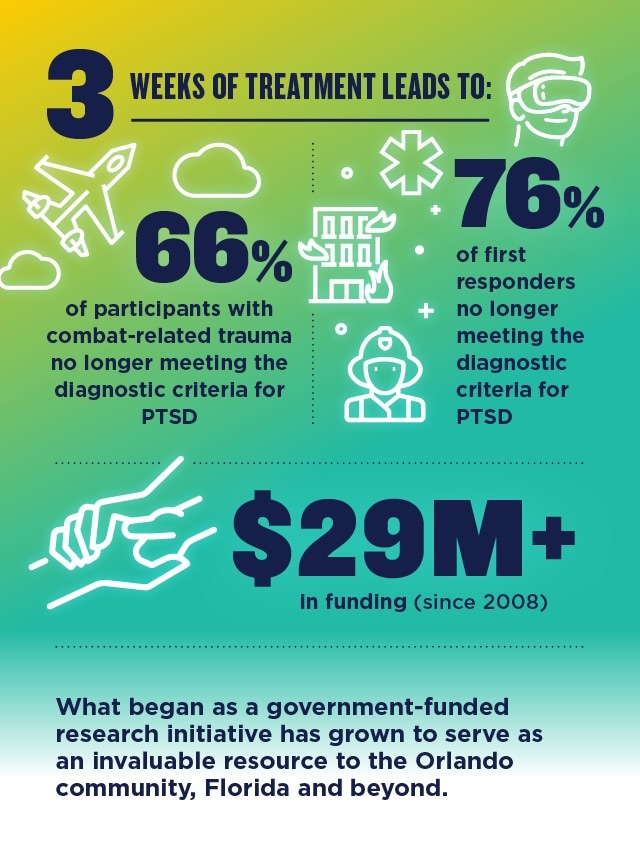
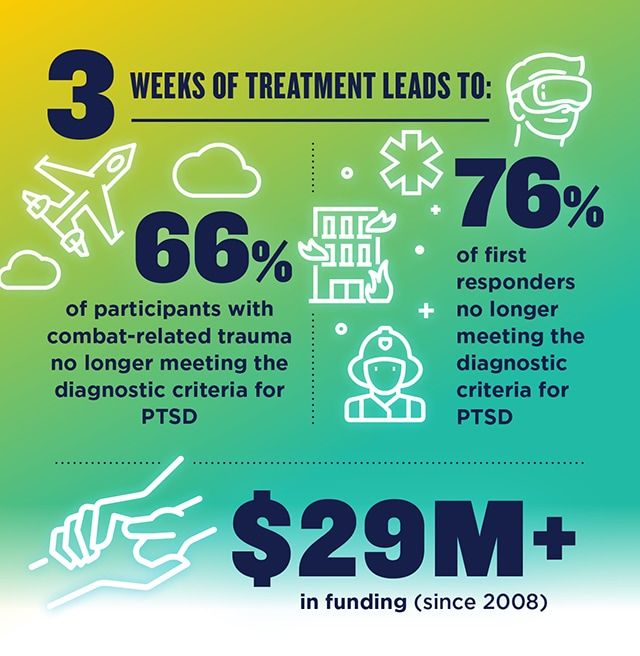
Email updates

diff --git a/src/restores.html b/src/restores.html
@@ -97,10 +97,10 @@
               <!-- START Stat Image -->
 
               <tr class="bg-white">
-                <td>
+                <td class="pb-3">
                   <img class="mw-100"
                     src="https://s3.amazonaws.com/web.ucf.edu/email/2021-chronicle-email/restores/Nov-Restores-Chronicle-stats.jpg"
-                    alt="Statistics displaying the effectivness of UCF's PTSD Research Clinic">
+                    alt="Statistics displaying the effectiveness of UCF's PTSD Research Clinic">
                 </td>
               </tr>
 
@@ -112,14 +112,32 @@
           <table class="container-outer bg-white">
             <tbody>
 
+            <!-- START Podcast Info -->
+              <tr>
+                <td class="pb-4">
+
+                  <table class="container-inner">
+                    <tbody>
+                      <tr>
+                        <td class="text-left">
+                          What began as a government-funded research initiative has grown to serve as an invaluable resource to the Orlando community, Florida and beyond. Listen to our recent podcast episode with expert Deborah Beidel on PTSD treatment that works for veterans and first responders.
+                        </td>
+                      </tr>
+                    </tbody>
+                  </table>
+
+                </td>
+              </tr>
+              <!-- END Podcast Info -->
+
               <!-- START Knights Do That Podcast CTA -->
               <tr>
-                <td class="pt-5 pb-4">
+                <td class="pb-4">
                   <a
                     href="https://www.ucf.edu/TODO?utm_source=newsletter&utm_medium=email&utm_campaign=chronicle_november_e-blast&utm_content=podcast_thumbnail">
                     <img class="mw-100"
-                      src="https://s3.amazonaws.com/web.ucf.edu/email/2021-chronicle-email/restores/Nov-Restores-Chronicle-KTO-Thumb-1.jpg"
-                      alt="Listen to the Knights Do That Podcast about PTSD Treatmenet That Works for Veterans and First Responders">
+                      src="https://s3.amazonaws.com/web.ucf.edu/email/2021-chronicle-email/restores/Nov-Restores-Chronicle-ListenPodcast.jpg"
+                      alt="Listen to the Knights Do That Podcast about PTSD Treatment That Works for Veterans and First Responders">
                   </a>
                 </td>
               </tr>
